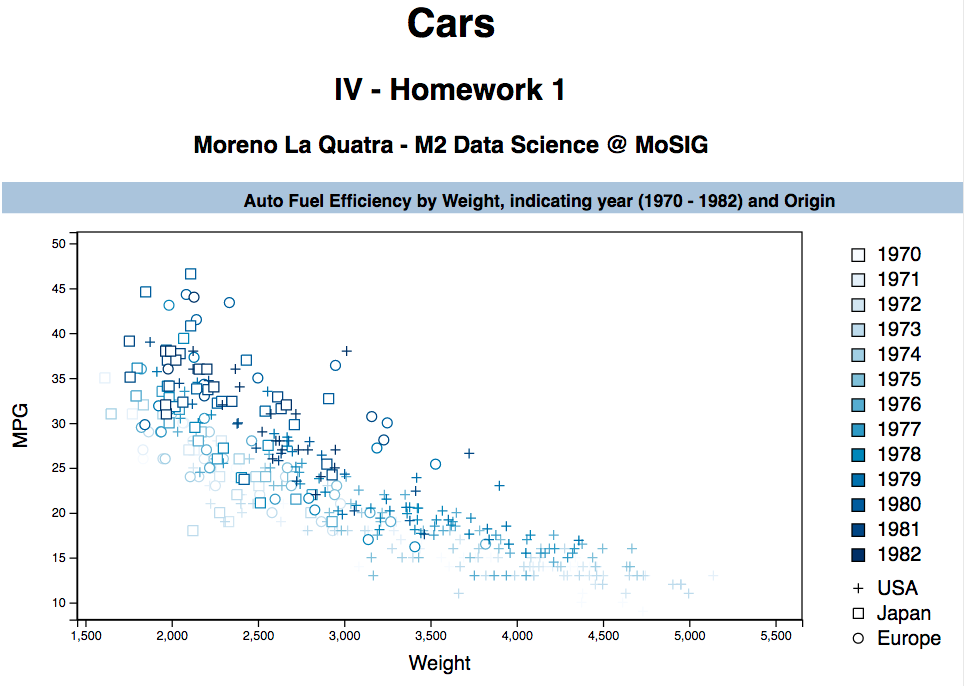
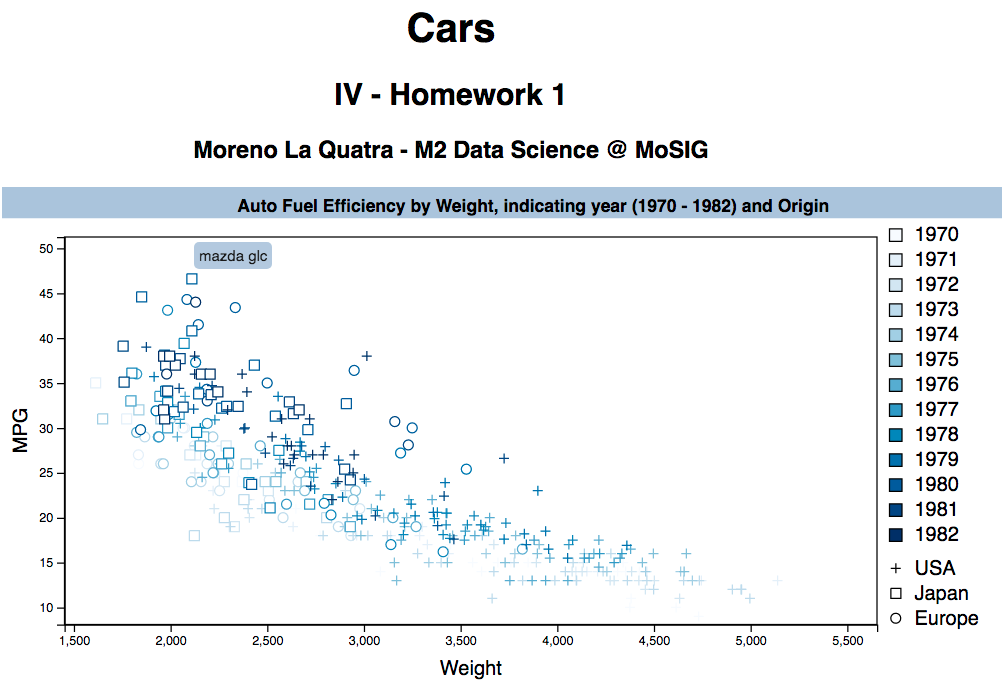
update margin legend

diff --git a/viz/cars.html b/viz/cars.html
@@ -43,11 +43,11 @@ d3.tsv("../data/cars.tsv", function(error, data) {
 
 	var totalWidth = 800;
 	var totalHeight = 400;
-	var legendWidth = 100;
+	var legendWidth = 60;
 	var xLabelHeight = 40;
 	var yLabelHeight = 20;
 
-	var margin = {top: 40, right: legendWidth + 20, bottom: 30, left: 40 + yLabelHeight};
+	var margin = {top: 40, right: legendWidth, bottom: 30, left: 50};
 	width = totalWidth - margin.left - margin.right - xLabelHeight;
 	height = totalHeight - margin.top - margin.bottom - yLabelHeight;
 
@@ -197,8 +197,8 @@ d3.tsv("../data/cars.tsv", function(error, data) {
 				.enter().append('rect')
 				.attr('transform', function(d, i) {
 					var height = legendRectSize + legendSpacing;
-					var offset =  years.length / 2 - 20;
-					var horz = width + margin.left - yLabelHeight;
+					var offset =  years.length / 2;
+					var horz = width + margin.left - yLabelHeight*2;
 					var vert = i * height - offset;
 					return 'translate(' + horz + ',' + vert + ')';
 				})
@@ -212,8 +212,8 @@ d3.tsv("../data/cars.tsv", function(error, data) {
 				.append('text')
 				.attr('transform', function(d, i) {
 					var height = legendRectSize + legendSpacing;
-					var offset =  years.length / 2 - 20;
-					var horz = width + margin.left - yLabelHeight;
+					var offset =  years.length / 2;
+					var horz = width + margin.left - yLabelHeight*2;
 					var vert = i * height - offset;
 					return 'translate(' + horz + ',' + vert + ')';
 				})
@@ -225,8 +225,8 @@ d3.tsv("../data/cars.tsv", function(error, data) {
 				.enter().append('path')
 				.attr('transform', function(d, i) {
 					var height = legendRectSize + legendSpacing;
-					var offset = years.length * (legendRectSize + legendSpacing) + 25;
-					var horz = width + margin.left - yLabelHeight + 5;
+					var offset = years.length * (legendRectSize + legendSpacing) + 5;
+					var horz = width + margin.left - yLabelHeight*2 + 5;
 					var vert = i * height + offset;
 					return 'translate(' + horz + ',' + vert + ')';
 				})
@@ -240,8 +240,8 @@ d3.tsv("../data/cars.tsv", function(error, data) {
 				.append('text')
 				.attr('transform', function(d, i) {
 					var height = legendRectSize + legendSpacing;
-					var offset = years.length * (legendRectSize + legendSpacing) +20;
-					var horz = width + margin.left - yLabelHeight;
+					var offset = years.length * (legendRectSize + legendSpacing);
+					var horz = width + margin.left - yLabelHeight*2;
 					var vert = i * height + offset;
 					return 'translate(' + horz + ',' + vert + ')';
 				})
